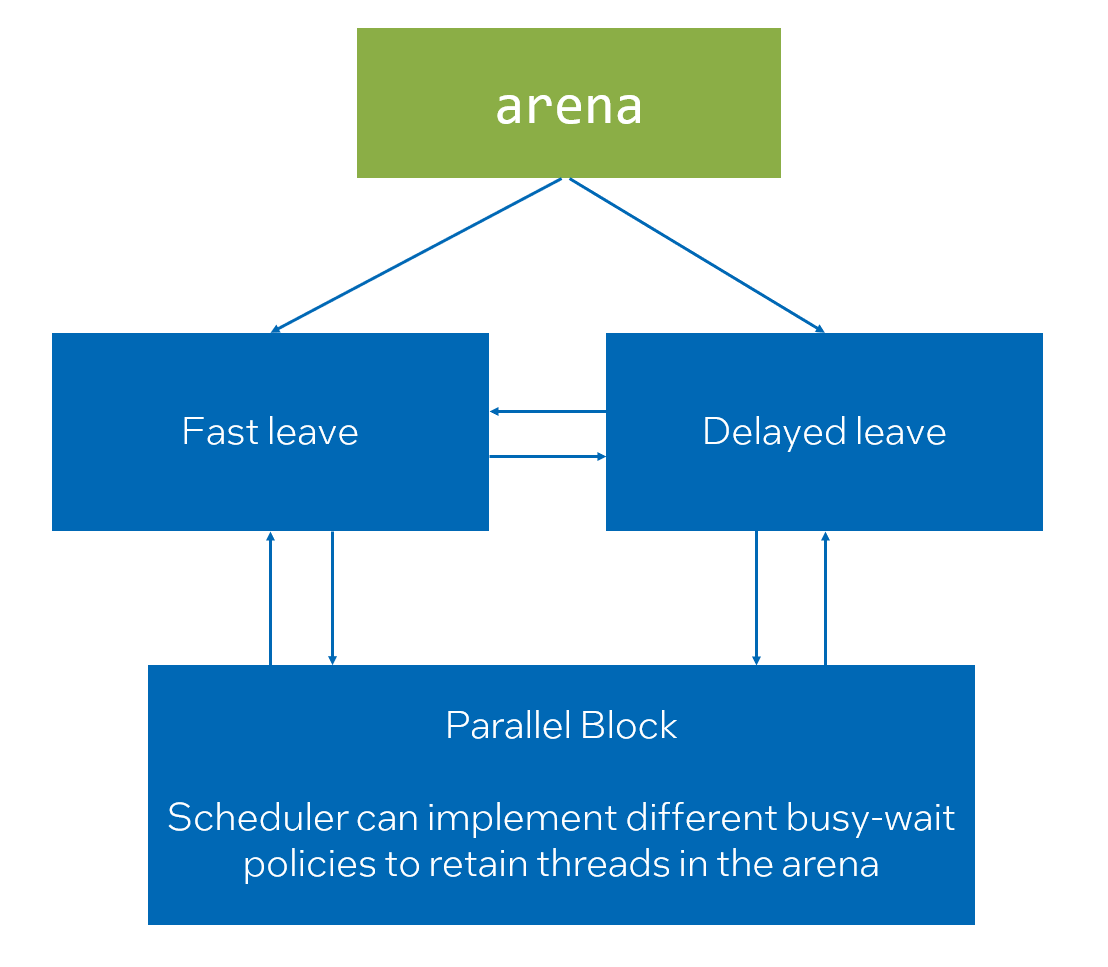
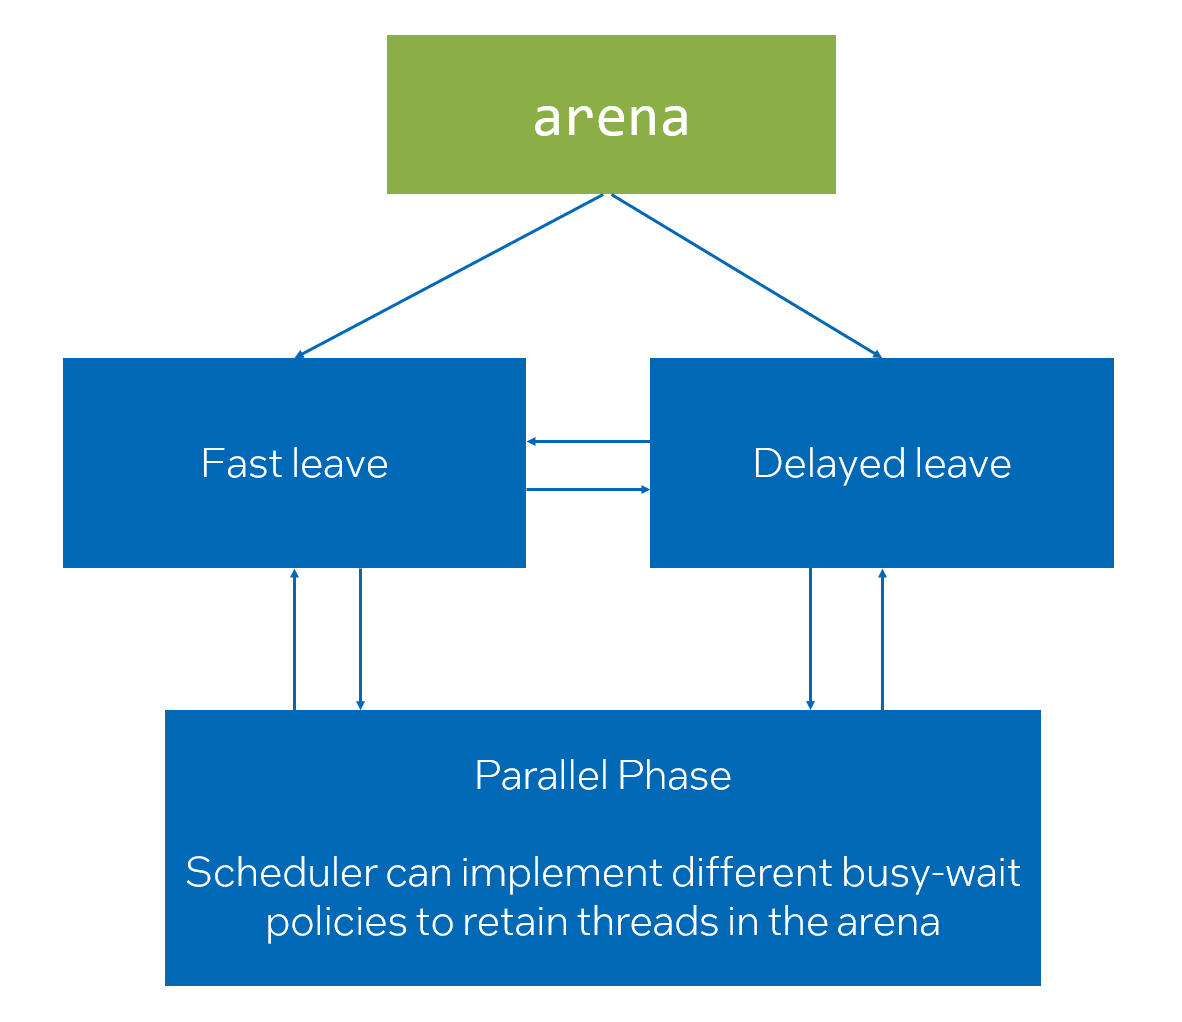
Address comments

diff --git a/rfcs/proposed/parallel_block_for_task_arena/README.md b/rfcs/proposed/parallel_block_for_task_arena/README.md
@@ -84,10 +84,10 @@ This state diagram leads to several questions. There are some of them:
   * What if we just indicated the end of the "Parallel Phase"?
 
 The extended state machine aims to answer these questions.
-* The first call to the “Start of PB” will transition into the “Parallel Phase” state.
-* The last call to the “End of PB” will transition back to the “Delayed leave” state
+* The first call to the “Start of Phase” will transition into the “Parallel Phase” state.
+* The last call to the “End of Phase” will transition back to the “Delayed leave” state
   or into the "One-time Fast leave" if it is indicated that threads should leave sooner.
-* Concurrent or nested calls to the “Start of PB” or the “End of PB”
+* Concurrent or nested calls to the “Start of Phase” or the “End of Phase”
   increment/decrement reference counter.
 
 <img src="parallel_phase_state_final.png" width=800>
@@ -101,16 +101,17 @@ Let's consider the semantics that an API for explicit parallel phases can provid
       in advance.
 * "Parallel phase" itself:
   * Scheduler can implement different policies to retain threads in the arena.
+    * For instance, more aggressive policy might be implemented for _parallel phase_.
+      It can be beneficial in cases when the default arena leave policy is not sufficient enough.
   * The semantics for retaining threads is a hint to the scheduler;
     thus, no real guarantee is provided. The scheduler can ignore the hint and
     move threads to another arena or to sleep if conditions are met.
 * End of a parallel phase:
   * Indicates the point from which the scheduler may drop a hint and
     no longer retain threads in the arena.
-  * Indicates that arena should enter the “One-time Fast leave” thus workers can leave sooner.
-    * If work was submitted immediately after the end of the parallel phase,
-      the default arena behavior with regard to "workers leave" policy is restored.
-    * If the default "workers leave" policy was the "Fast leave", the result is NOP.
+  * Indicates that worker threads should avoid busy-waiting once there is no more work in the arena.
+    * Temporarily overrides the default arena leave policy, which will be restored when
+      new work is submitted.
 
 
 ### Proposed API
@@ -129,7 +130,6 @@ class task_arena {
     enum class leave_policy : /* unspecified type */ {
         automatic = /* unspecifed */,
         fast = /* unspecifed */,
-        delayed = /* unspecifed */
     };
 
     task_arena(int max_concurrency = automatic, unsigned reserved_for_masters = 1,
@@ -161,9 +161,8 @@ namespace this_task_arena {
     void end_parallel_phase(bool with_fast_leave = false);
 }
 ```
-
-By the contract, users should indicate the end of _parallel phase_ for each
-previous start of _parallel phase_.<br>
+The _parallel phase_ continues until each previous `start_parallel_phase` call
+has a matching `end_parallel_phase` call.<br>
 Let's introduce RAII scoped object that will help to manage the contract.
 
 If the end of the parallel phase is not indicated by the user, it will be done automatically when
